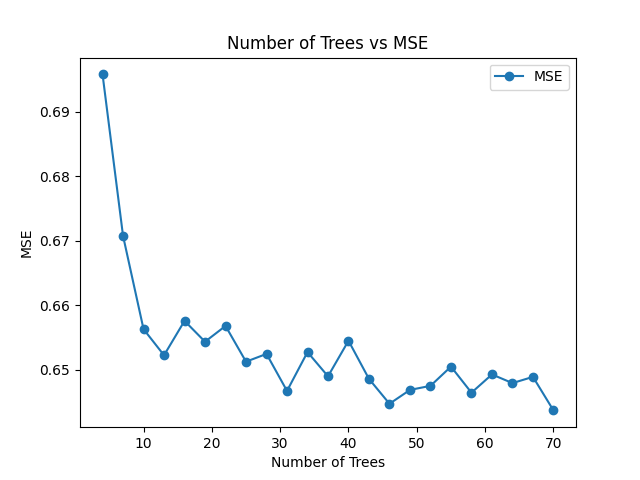
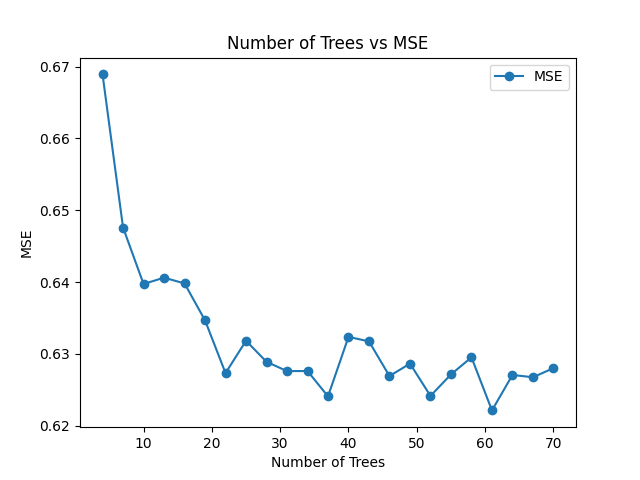
add test1

diff --git a/test1.py b/test1.py
@@ -1,7 +1,6 @@
 import pandas as pd
 import numpy as np
 import matplotlib.pyplot as plt
-import seaborn as sns
 from sklearn.model_selection import train_test_split
 from sklearn.ensemble import RandomForestRegressor
 from sklearn.metrics import mean_squared_error, r2_score
@@ -49,43 +48,46 @@ print(f"R^2 Score: {r2}")
 
 
 # our random forest
-tree_num = np.arange(4, 62, 3)
-depth_num = np.arange(10, 32, 3)
-mse_list = np.zeros((len(depth_num), len(tree_num)))
-r2_list = np.zeros((len(depth_num), len(tree_num)))
-for i, depth in enumerate(depth_num):
-    print(f"Training Random Forest with max depth {depth}")
-    for j, n_tree in enumerate(tree_num):
-        print(f"Training Random Forest with {n_tree} trees")
+tree_num = np.arange(4, 71, 3)
+mse_list = [0] * len(tree_num)
+r2_list = [0] * len(tree_num)
+for j in range(10):
+    print(f"Iteration {j + 1}")
+    X_train,X_test,y_train,y_test=train_test_split(df,scores,test_size=0.2,shuffle=True)
+    for i in tree_num:
+        print(f"Training Random Forest with {i} trees")
         # Initialize the RandomForest model
         model = RandomForest(
-            n_trees=n_tree,
-            max_depth=depth,
-            max_features=13
+            n_trees=i,
+            max_depth=5,
+            max_features='sqrt'
         )
         model.fit(X_train, y_train)
         # predict
         y_pred=model.predict(X_test)
         mse = mean_squared_error(y_test, y_pred)
         r2 = r2_score(y_test, y_pred)
-        mse_list[i, j] = mse
-        r2_list[i, j] = r2
+        """print(y_pred[:10])  # Print first 10 predictions
+        print(f"Mean Squared Error: {mse}")
+        print(f"R^2 Score: {r2}")"""
+        mse_list[i // 3 - 1] += mse
+        r2_list[i // 3 - 1] += r2
 
-mse_list = pd.DataFrame(mse_list, index=depth_num, columns=tree_num)
-r2_list = pd.DataFrame(r2_list, index=depth_num, columns=tree_num)
+mse_list = np.array(mse_list)
+r2_list = np.array(r2_list)
 # evaluate
-plt.figure(figsize=(12, 8))
-sns.heatmap(mse_list, annot=True, fmt=".4f", cmap='viridis', xticklabels=tree_num, yticklabels=depth_num, annot_kws={"size": 6})
+plt.plot(tree_num, mse_list / 10, label='MSE', marker='o')
 plt.xlabel('Number of Trees')
-plt.ylabel('Depth of Trees')
-plt.title('MSE heatmap')
-plt.savefig('mse_heatmap.png')
+plt.ylabel('MSE')
+plt.title('Number of Trees vs MSE')
+plt.legend()
+plt.savefig('mse_vs_trees.png')
 plt.show()
 
-plt.figure(figsize=(12, 8))
-sns.heatmap(r2_list, annot=True, fmt=".4f", cmap='viridis', xticklabels=tree_num, yticklabels=depth_num, annot_kws={"size": 6})
+plt.plot(tree_num, r2_list / 10, label='R^2', marker='o')
 plt.xlabel('Number of Trees')
-plt.ylabel('Depth of Trees')
-plt.title('R^2 heatmap')
-plt.savefig('r2_heatmap.png')
+plt.ylabel('R^2')
+plt.title('Number of Trees vs R^2')
+plt.legend()
+plt.savefig('r2_vs_trees.png')
 plt.show()
